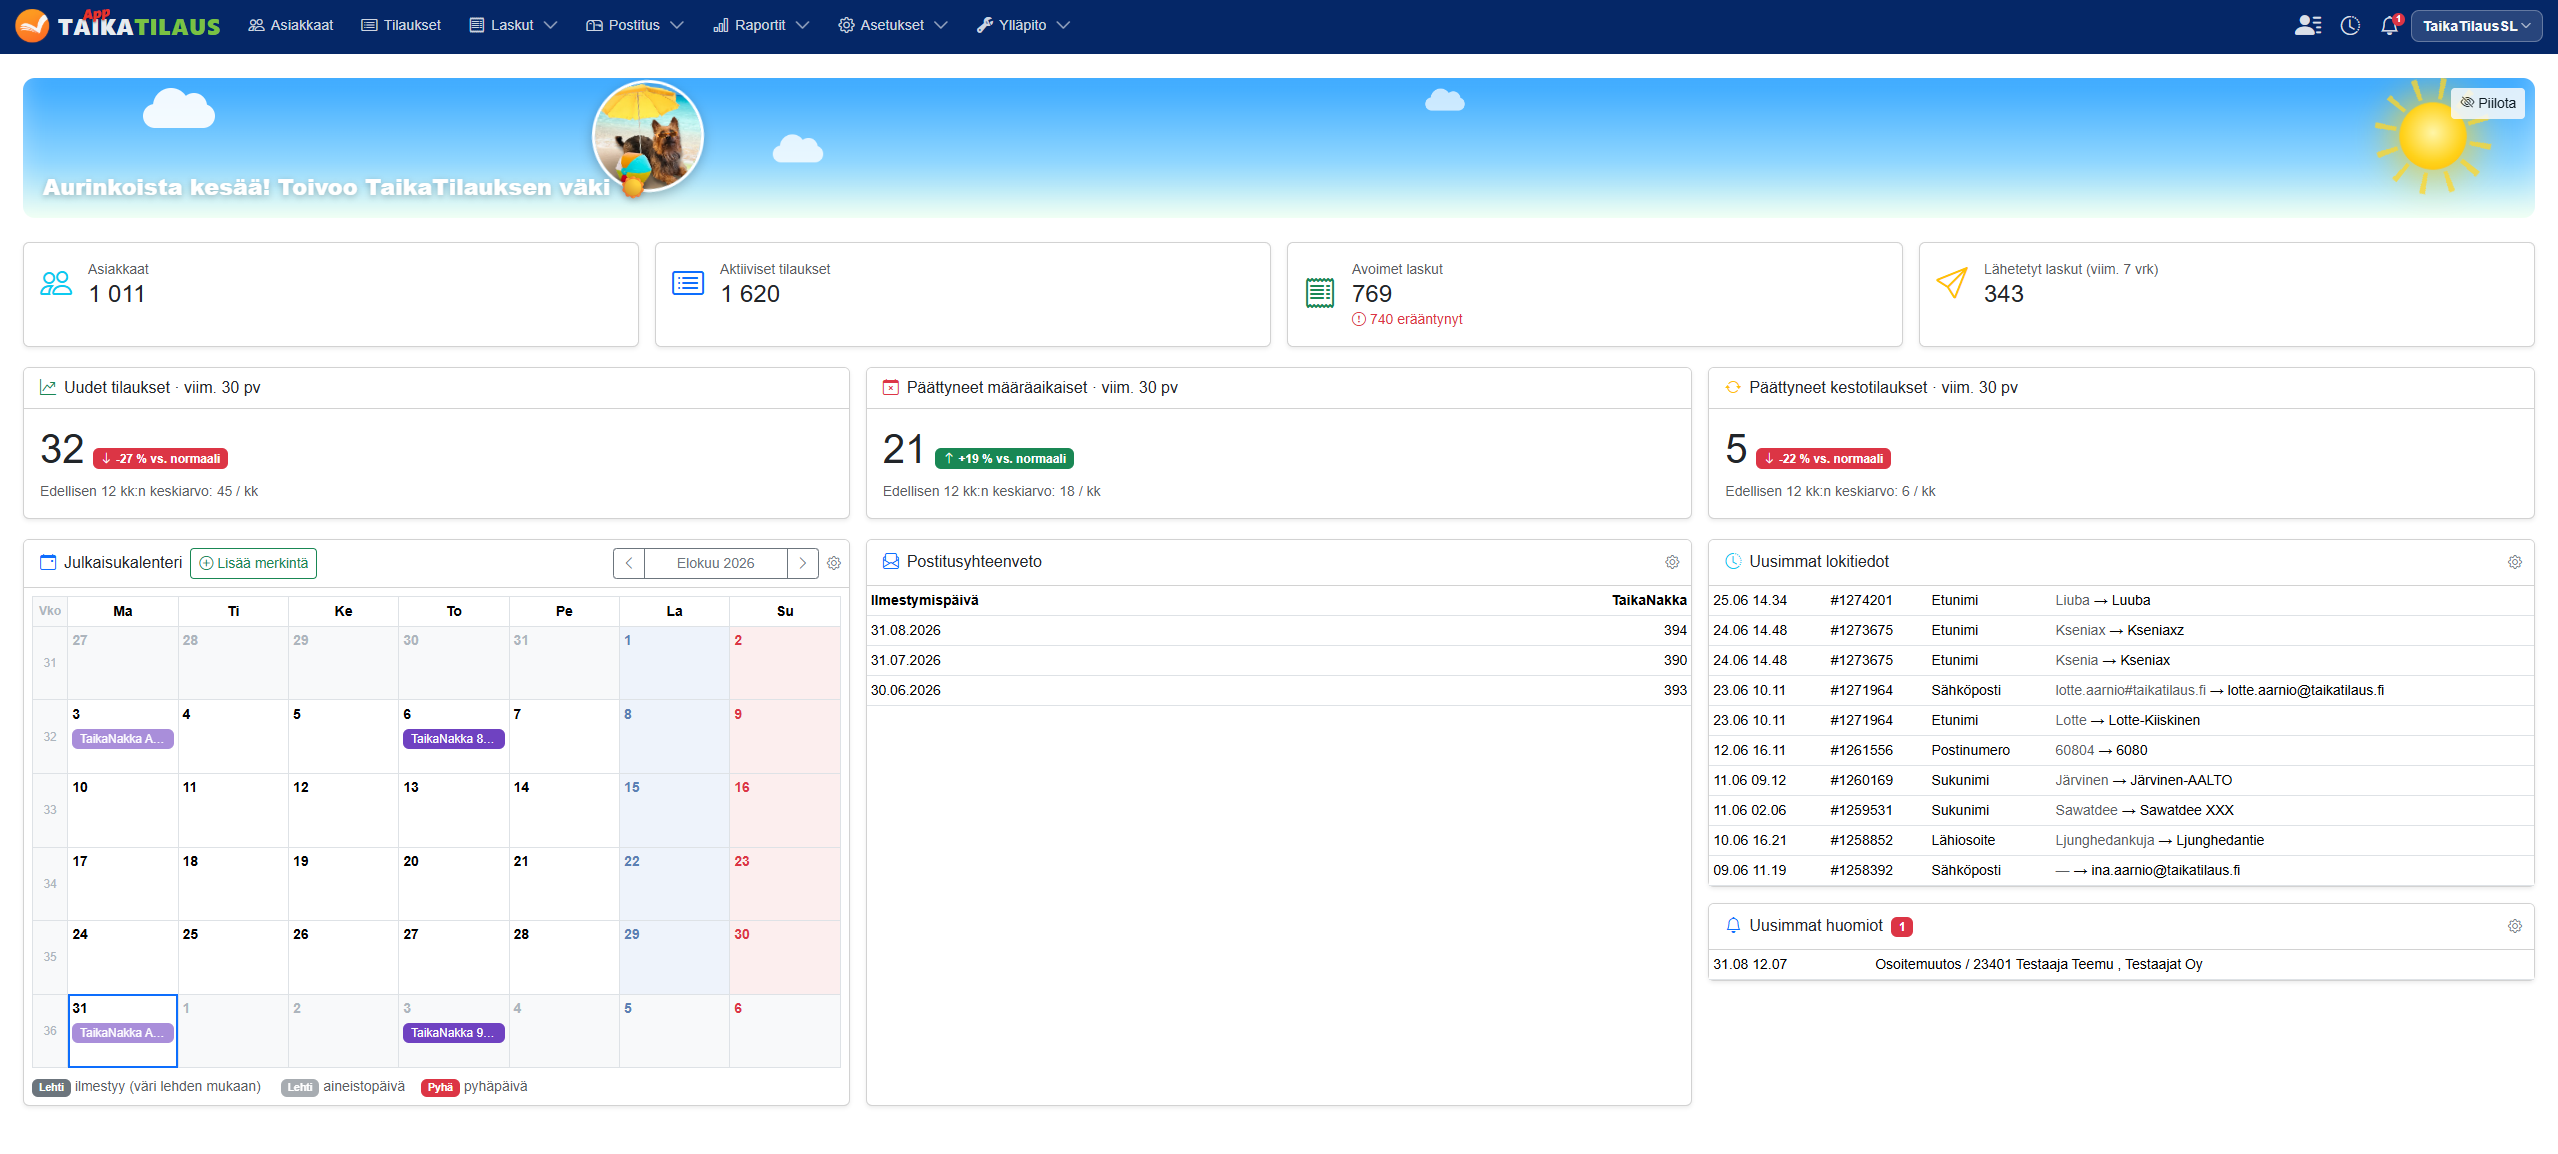
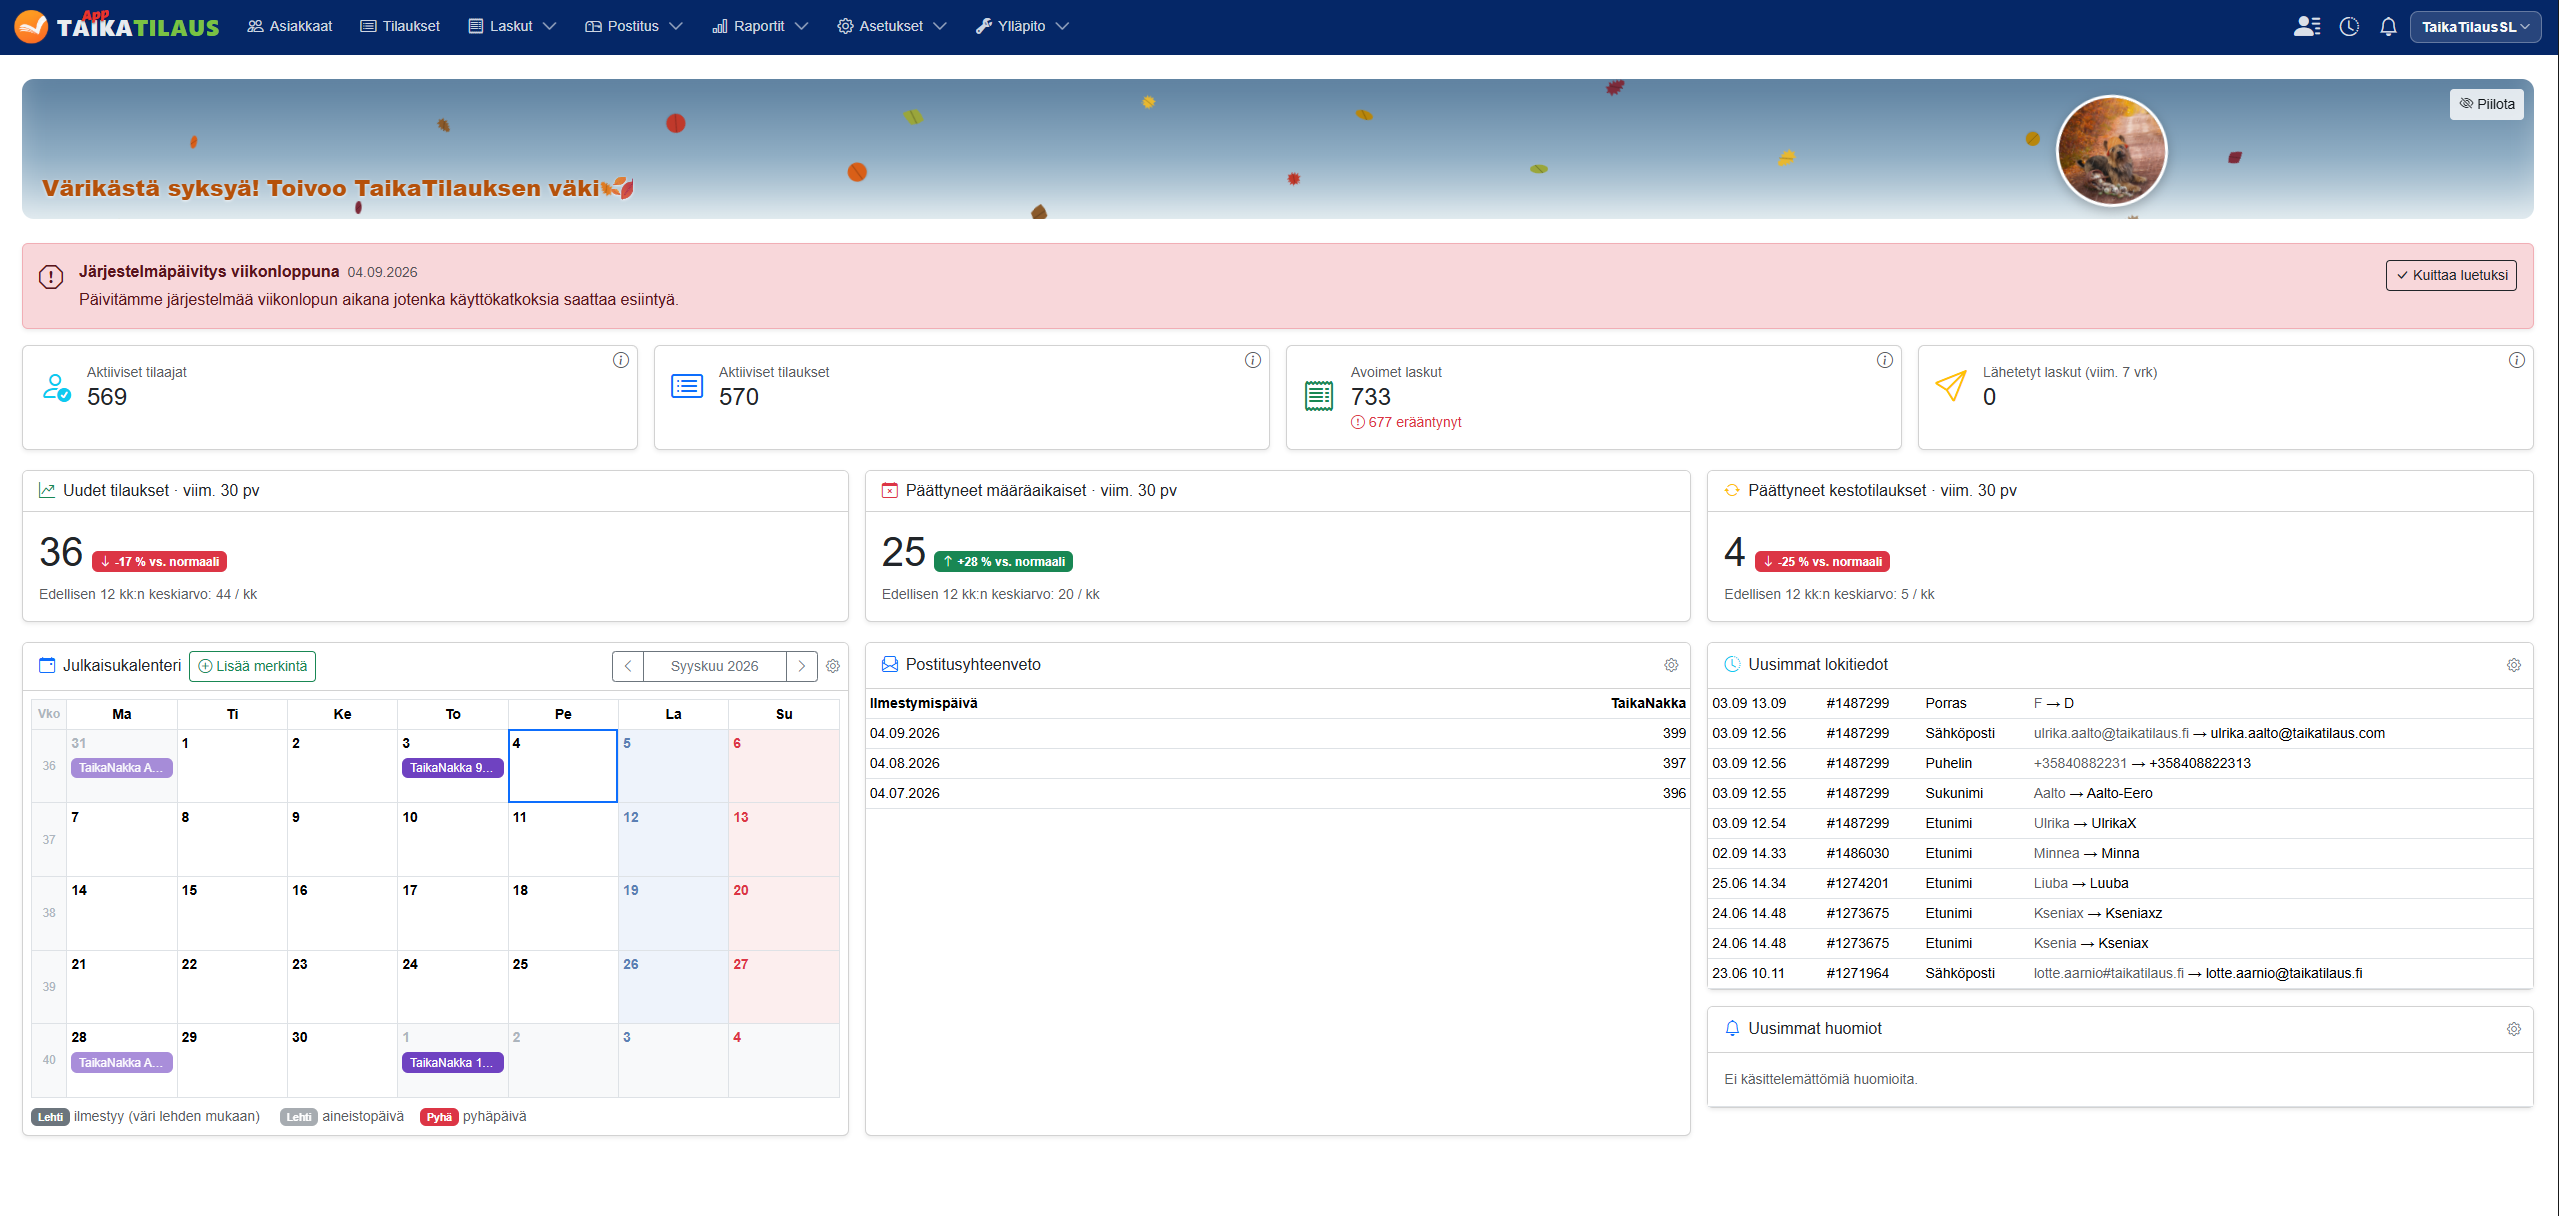
tiedotteet

diff --git a/docs/uusi_versio/Etusivu/etusivu.md b/docs/uusi_versio/Etusivu/etusivu.md
@@ -6,7 +6,7 @@ description: Etusivu — Päävalikko, Oikean reunan ikonit, Omat tiedot ja kirj
 
 # Etusivu
 
-Etusivulle on koottu yhteenveto asiakkaista, tilauksista ja laskuista sekä julkaisukalenteri, postitusyhteenveto ja viimeisimmät muutokset. Etusivulla näkyviä kortteja voi hallita [asetuksista](/docs/uusi_versio/asetukset/etusivun-osiot). 
+Etusivulle on koottu yhteenveto asiakkaista, tilauksista ja laskuista sekä tiedoiteet, julkaisukalenteri, postitusyhteenveto ja viimeisimmät muutokset. Etusivulla näkyviä kortteja voi hallita [asetuksista](/docs/uusi_versio/asetukset/etusivun-osiot). 
 
 ![TaikaTilaus 3.0:n etusivun yleisnäkymä](/img/versio2/etusivu.png)
 
@@ -35,38 +35,19 @@ Päävalikon oikeassa reunassa ovat seuraavat pikatoiminnot:
 | [**Keräilylista**](/docs/uusi_versio/Etusivu/kerailylista) | Avaa keräilylistan. Kuvakkeen yhteydessä näkyvä numero kertoo keräilylistalla olevien asiakkaiden määrän. |
 | [**Historia**](/docs/uusi_versio/Etusivu/historia) | Avaa järjestelmän historian. |
 | [**Huomiot**](/docs/uusi_versio/Etusivu/huomiot) | Avaa huomiot. Kuvakkeen yhteydessä näkyvä numero kertoo käsittelemättömien huomioiden määrän. |
-| **Omat tiedot** | Avaa käyttäjävalikon, jossa voit tarkastella omia tietojasi tai kirjautua ulos järjestelmästä. |
+| [**Omat tiedot**](/docs/uusi_versio/Etusivu/omat-tiedot) | Avaa käyttäjävalikon, jossa voit tarkastella omia tietojasi tai kirjautua ulos järjestelmästä. |
 
 Avaa toiminto napsauttamalla sitä vastaavaa kuvaketta. Käyttäjävalikko avautuu napsauttamalla oikeassa reunassa näkyvää käyttäjätunnusta.
 
 ![Päävalikon keräilylista-, historia-, huomio- ja käyttäjäkuvakkeet](/img/versio2/paavalikko-icons.png)
 
-### Omat tiedot ja kirjautuminen ulos
+## Tiedotteet
 
-Avaa käyttäjävalikko napsauttamalla päävalikon oikeassa reunassa näkyvää käyttäjätunnustasi.
+Uusi tiedote näkyy etusivun yläosassa. Kun olet lukenut tiedotteen, napsauta **Kuittaa luetuksi**.
 
-Valikossa ovat seuraavat toiminnot:
+Avaa kaikki tiedotteet napsauttamalla oikeassa yläkulmassa olevaa käyttäjävalikkoa ja valitsemalla **Tiedotteet**. Luetuksi kuitatun tiedotteen voi palauttaa lukemattomaksi napsauttamalla **Palauta lukemattomaksi**.
 
-- **Tiedot:** avaa käyttäjän omat tiedot ja näkymäasetukset.
-- **Kirjaudu ulos:** kirjaa käyttäjän ulos järjestelmästä.
-
-#### Käyttäjän tiedot
-
-**Tiedot**-sivulla näet seuraavat käyttäjätiliä koskevat tiedot:
-
-| Kenttä | Sisältö |
-| --- | --- |
-| **Asiakas (tenant)** | Organisaatio tai ympäristö, johon käyttäjätunnus kuuluu. |
-| **Käyttäjätunnus** | Järjestelmään kirjautumisessa käytettävä tunnus. |
-| **Viimeisin kirjautuminen** | Edellisen kirjautumisen päivämäärä ja kellonaika. |
-| **Nimi** | Käyttäjän nimi. |
-| **Sähköposti** | Käyttäjän sähköpostiosoite. |
-| **Puhelin** | Käyttäjän puhelinnumero. |
-| **Ulkoasuteema** | Käyttöliittymässä käytettävä teema. |
-
-Tallenna muutokset napsauttamalla **Tallenna**.
-
-![Käyttäjän omat tiedot ja ulkoasuteeman valinta](/img/versio2/omat-tiedot.png)
+![Tiedote etusivulla](/img/versio2/tiedotteet2.png)
 
 ## Tunnusluvut
 

diff --git a/docs/uusi_versio/Etusivu/omat-tiedot.md b/docs/uusi_versio/Etusivu/omat-tiedot.md
@@ -1,0 +1,46 @@
+---
+sidebar_position: 5
+title: Omat tiedot
+description: Omat tiedot — Omat tiedot, Tiedotteet ja kirjautuminen ulos.
+---
+
+# Omat tiedot ja kirjautuminen ulos
+
+Avaa käyttäjävalikko napsauttamalla päävalikon oikeassa reunassa näkyvää käyttäjätunnustasi.
+
+Valikossa ovat seuraavat toiminnot:
+
+- **Tiedot:** avaa käyttäjän omat tiedot ja näkymäasetukset.
+- **Tiedotteet:** tarkastele järjestelmän tiedoitteita. 
+- **TaikaTilaus (vanha)**: avaa TaikaTilauksen vanhan 2.0 versio uudessa välilehdessä.
+- **Kirjaudu ulos:** kirjaa käyttäjän ulos järjestelmästä.
+
+![Omat tiedot -valikko järjestelmän päävalikossa](/img/versio2/paavalikko-icons.png)
+
+## Käyttäjän tiedot
+
+**Tiedot**-sivulla näet seuraavat käyttäjätiliä koskevat tiedot:
+
+| Kenttä | Sisältö |
+| --- | --- |
+| **Asiakas (tenant)** | Organisaatio tai ympäristö, johon käyttäjätunnus kuuluu. |
+| **Käyttäjätunnus** | Järjestelmään kirjautumisessa käytettävä tunnus. |
+| **Viimeisin kirjautuminen** | Edellisen kirjautumisen päivämäärä ja kellonaika. |
+| **Nimi** | Käyttäjän nimi. |
+| **Sähköposti** | Käyttäjän sähköpostiosoite. |
+| **Puhelin** | Käyttäjän puhelinnumero. |
+| **Ulkoasuteema** | Käyttöliittymässä käytettävä teema. |
+
+Tallenna muutokset napsauttamalla **Tallenna**.
+
+![Käyttäjän omat tiedot ja ulkoasuteeman valinta](/img/versio2/omat-tiedot.png)
+
+## Tiedotteet
+
+Uusi tiedote näkyy etusivun yläosassa. Kun olet lukenut tiedotteen, napsauta **Kuittaa luetuksi**.
+
+Avaa kaikki tiedotteet napsauttamalla oikeassa yläkulmassa olevaa käyttäjävalikkoa ja valitsemalla **Tiedotteet**. Luetuksi kuitatun tiedotteen voi palauttaa lukemattomaksi napsauttamalla **Palauta lukemattomaksi**.
+
+![Tiedote etusivulla](/img/versio2/tiedotteet2.png)
+
+![Tiedotteet](/img/versio2/tiedotteet.png)
